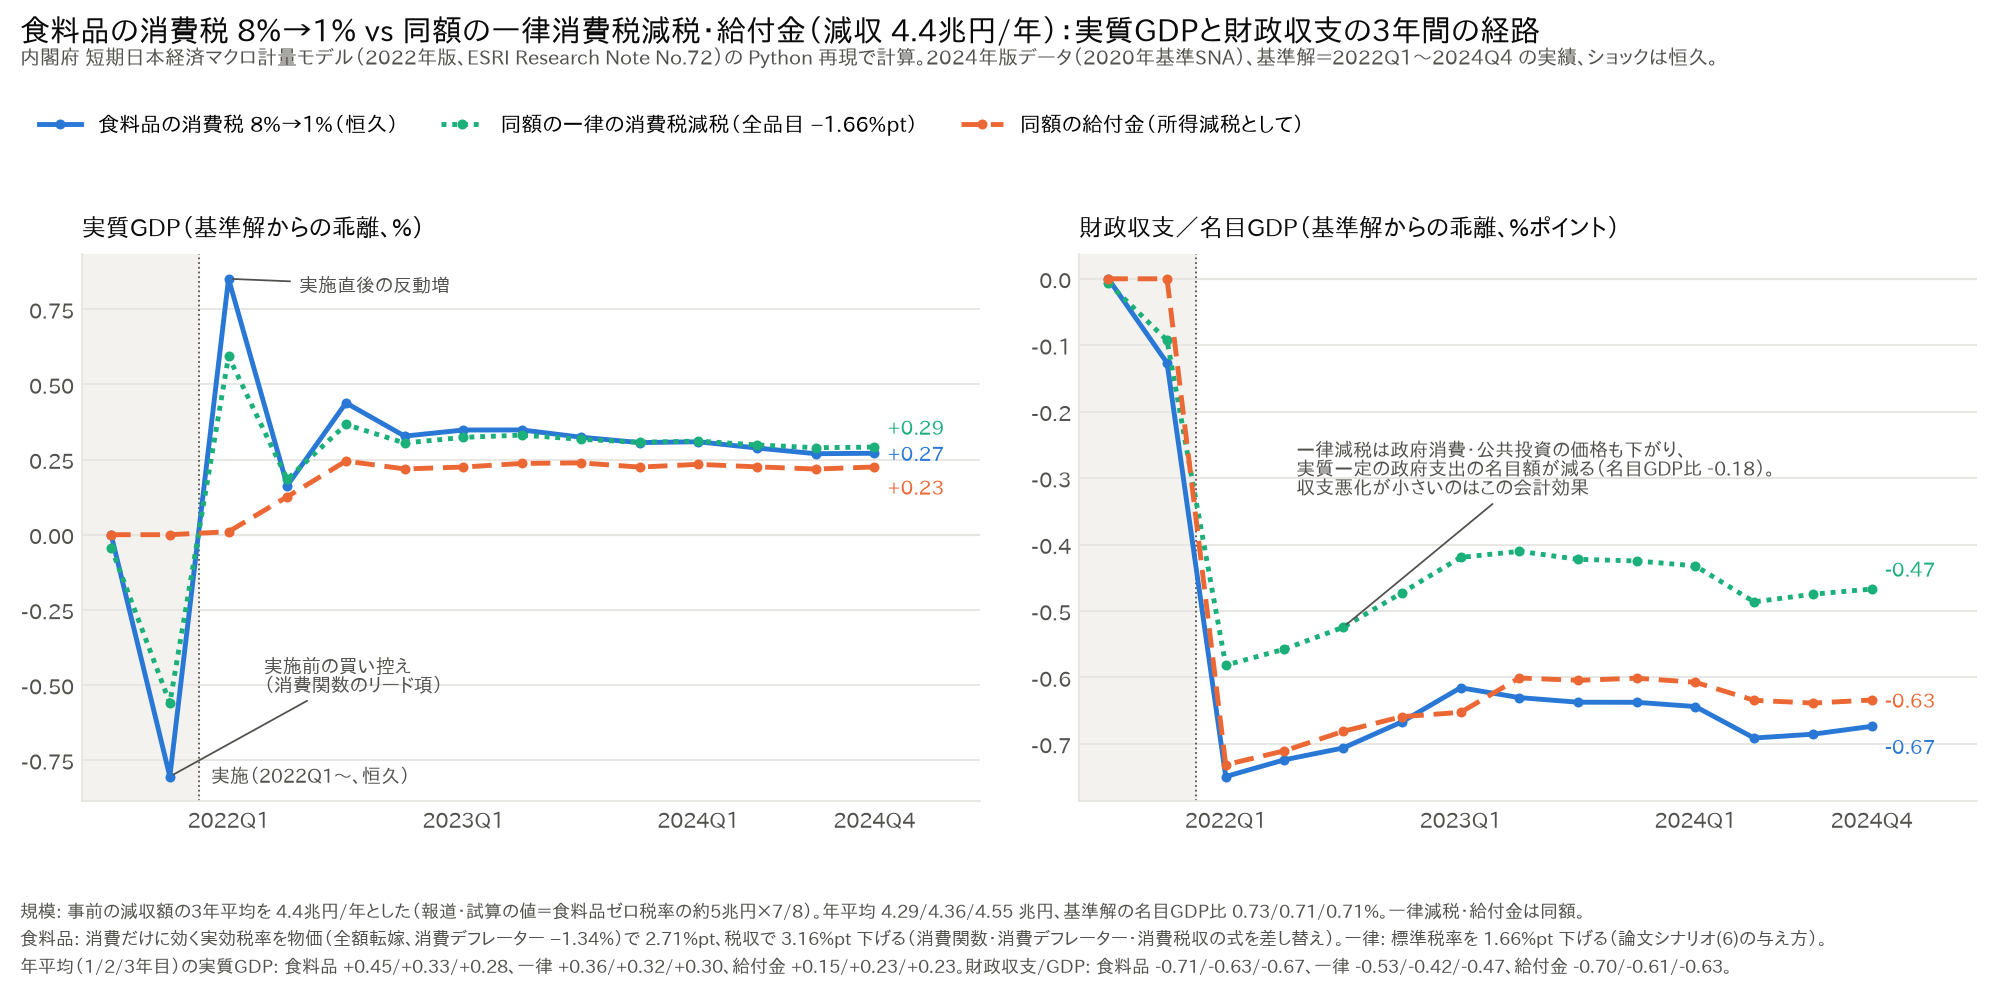
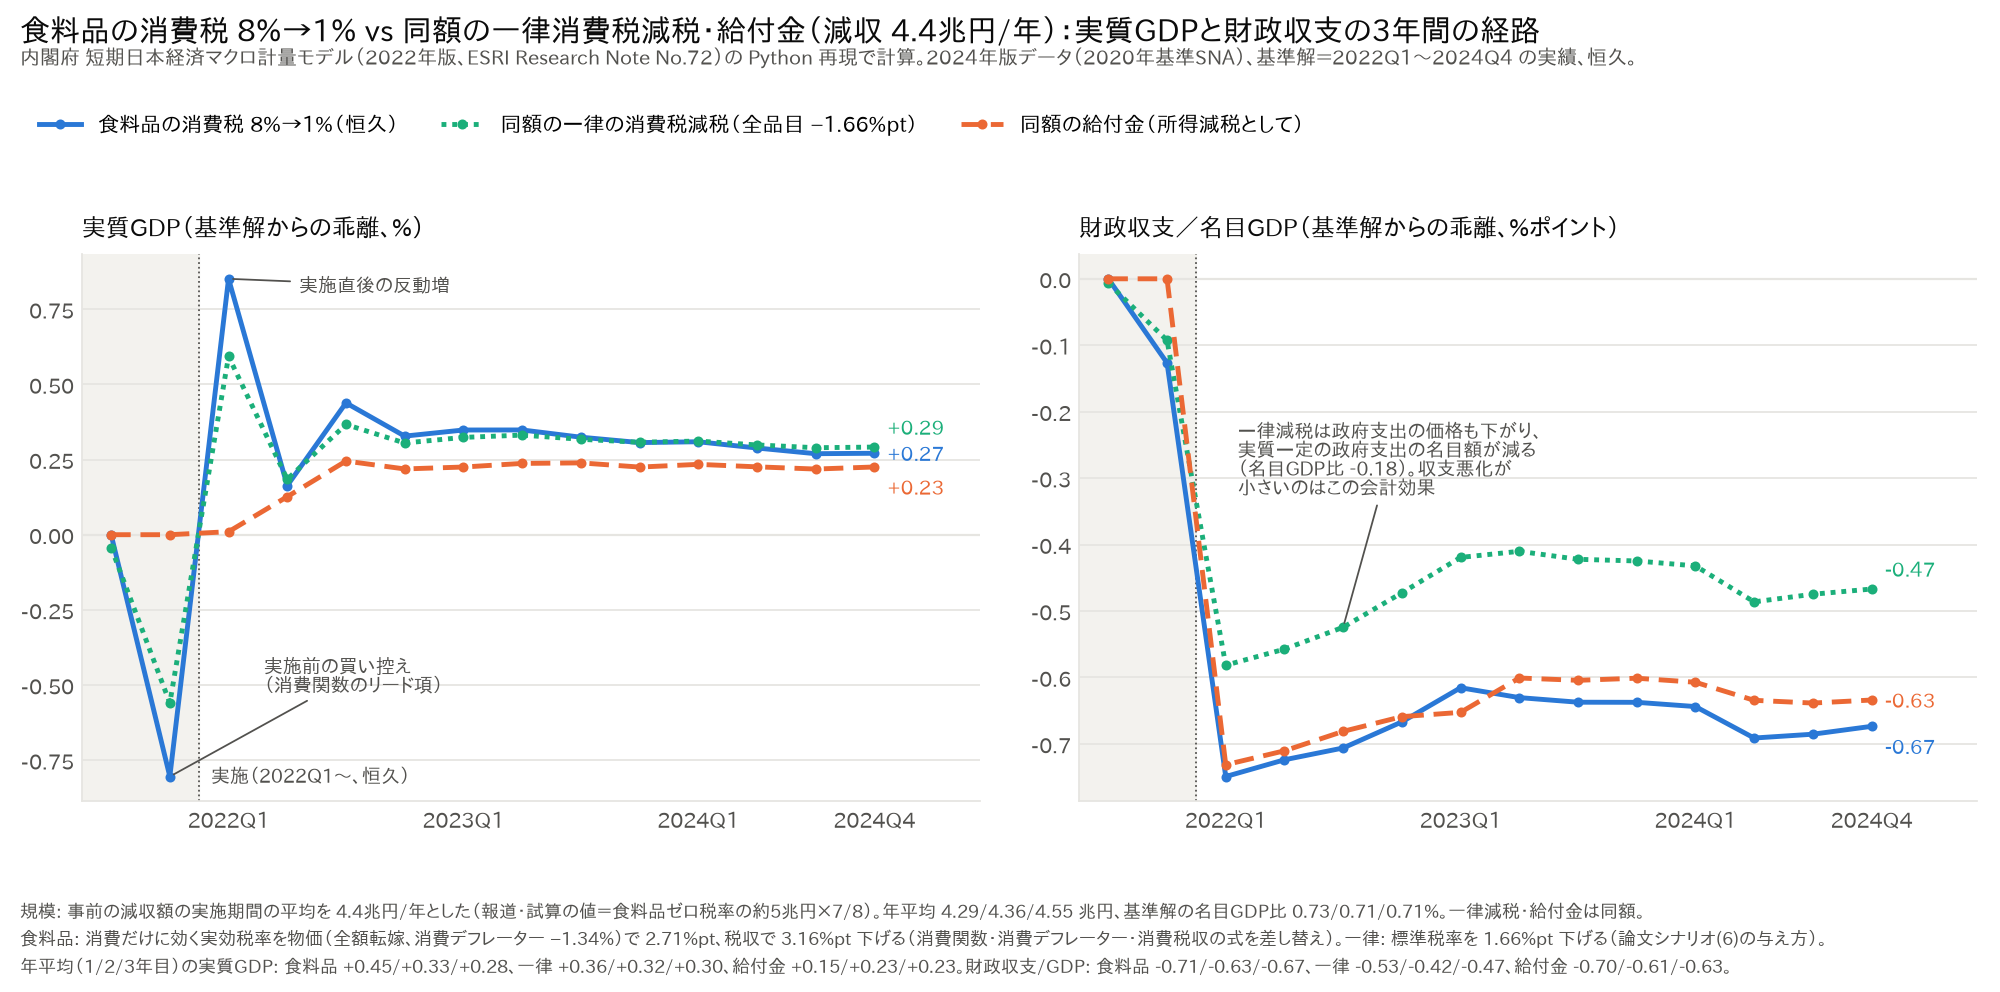
食料品の消費税減税シナリオに時限措置（--years）を追加し、政府案どおり2年間で解いた図を追加
- --years 2 で 2022Q1〜2023Q4 だけ税率を下げ（2024Q1 に元の税率へ）、給付も2年で終える。
  --loss-tn 指定時は実施期間の平均で減収額を合わせる
- 税率を戻す前の駆け込み・戻した後の反動減の注記、終了時点の区切り線を追加
- output/food_tax_cut_vs_benefit{,_4.4tn}_2y.{csv,png}、README に表と図を追加
- 恒久の結果（csv）は変わらない

Claude-Session: https://claude.ai/code/session_013ePjEtRrzquBdW4qa3Y9LD

Changed region(s): [[0.093, 0.9062, 0.837, 0.9375], [0.62, 0.4062, 0.837, 0.5], [0.806, 0.0312, 0.837, 0.0625]]

diff --git a/README.md b/README.md
@@ -231,6 +231,18 @@ ESRI_VINTAGE=2024 python src/simulate.py                                # 論文
 
 ![食料品の消費税 8%→1% vs 同額の給付金（減収4.4兆円）](output/food_tax_cut_vs_benefit_4.4tn.png)
 
+政府案（2027年4月から2年間）どおりの時限措置は `--years 2`（2024Q1 に元の税率に戻し、給付も2年で終える。減収は実施期間の平均で4.4兆円）。
+
+| 年平均（減収4.4兆円、2年時限） | 実質GDP（%）食料品減税 / 一律減税 / 給付金 | 財政収支/名目GDP（%pt）食料品減税 / 一律減税 / 給付金 |
+|---|---|---|
+| 1年目（2022） | +0.45 / +0.37 / +0.15 | −0.72 / −0.55 / −0.71 |
+| 2年目（2023） | +0.53 / +0.48 / +0.24 | −0.61 / −0.41 / −0.63 |
+| 3年目（2024、終了後） | −0.16 / −0.07 / +0.08 | +0.02 / +0.07 / +0.05 |
+
+2年目の終わりに税率を戻す前の駆け込み、3年目の初めに反動減が出る。
+
+![食料品の消費税 8%→1% vs 同額の給付金（減収4.4兆円、2年時限）](output/food_tax_cut_vs_benefit_4.4tn_2y.png)
+
 ## 変数台帳（論文の定義と実際のデータの対応）
 
 `data/processed/variable_ledger.csv` に、モデルデータの全234変数について次を記録している（`src/ledger.py` で生成）。
